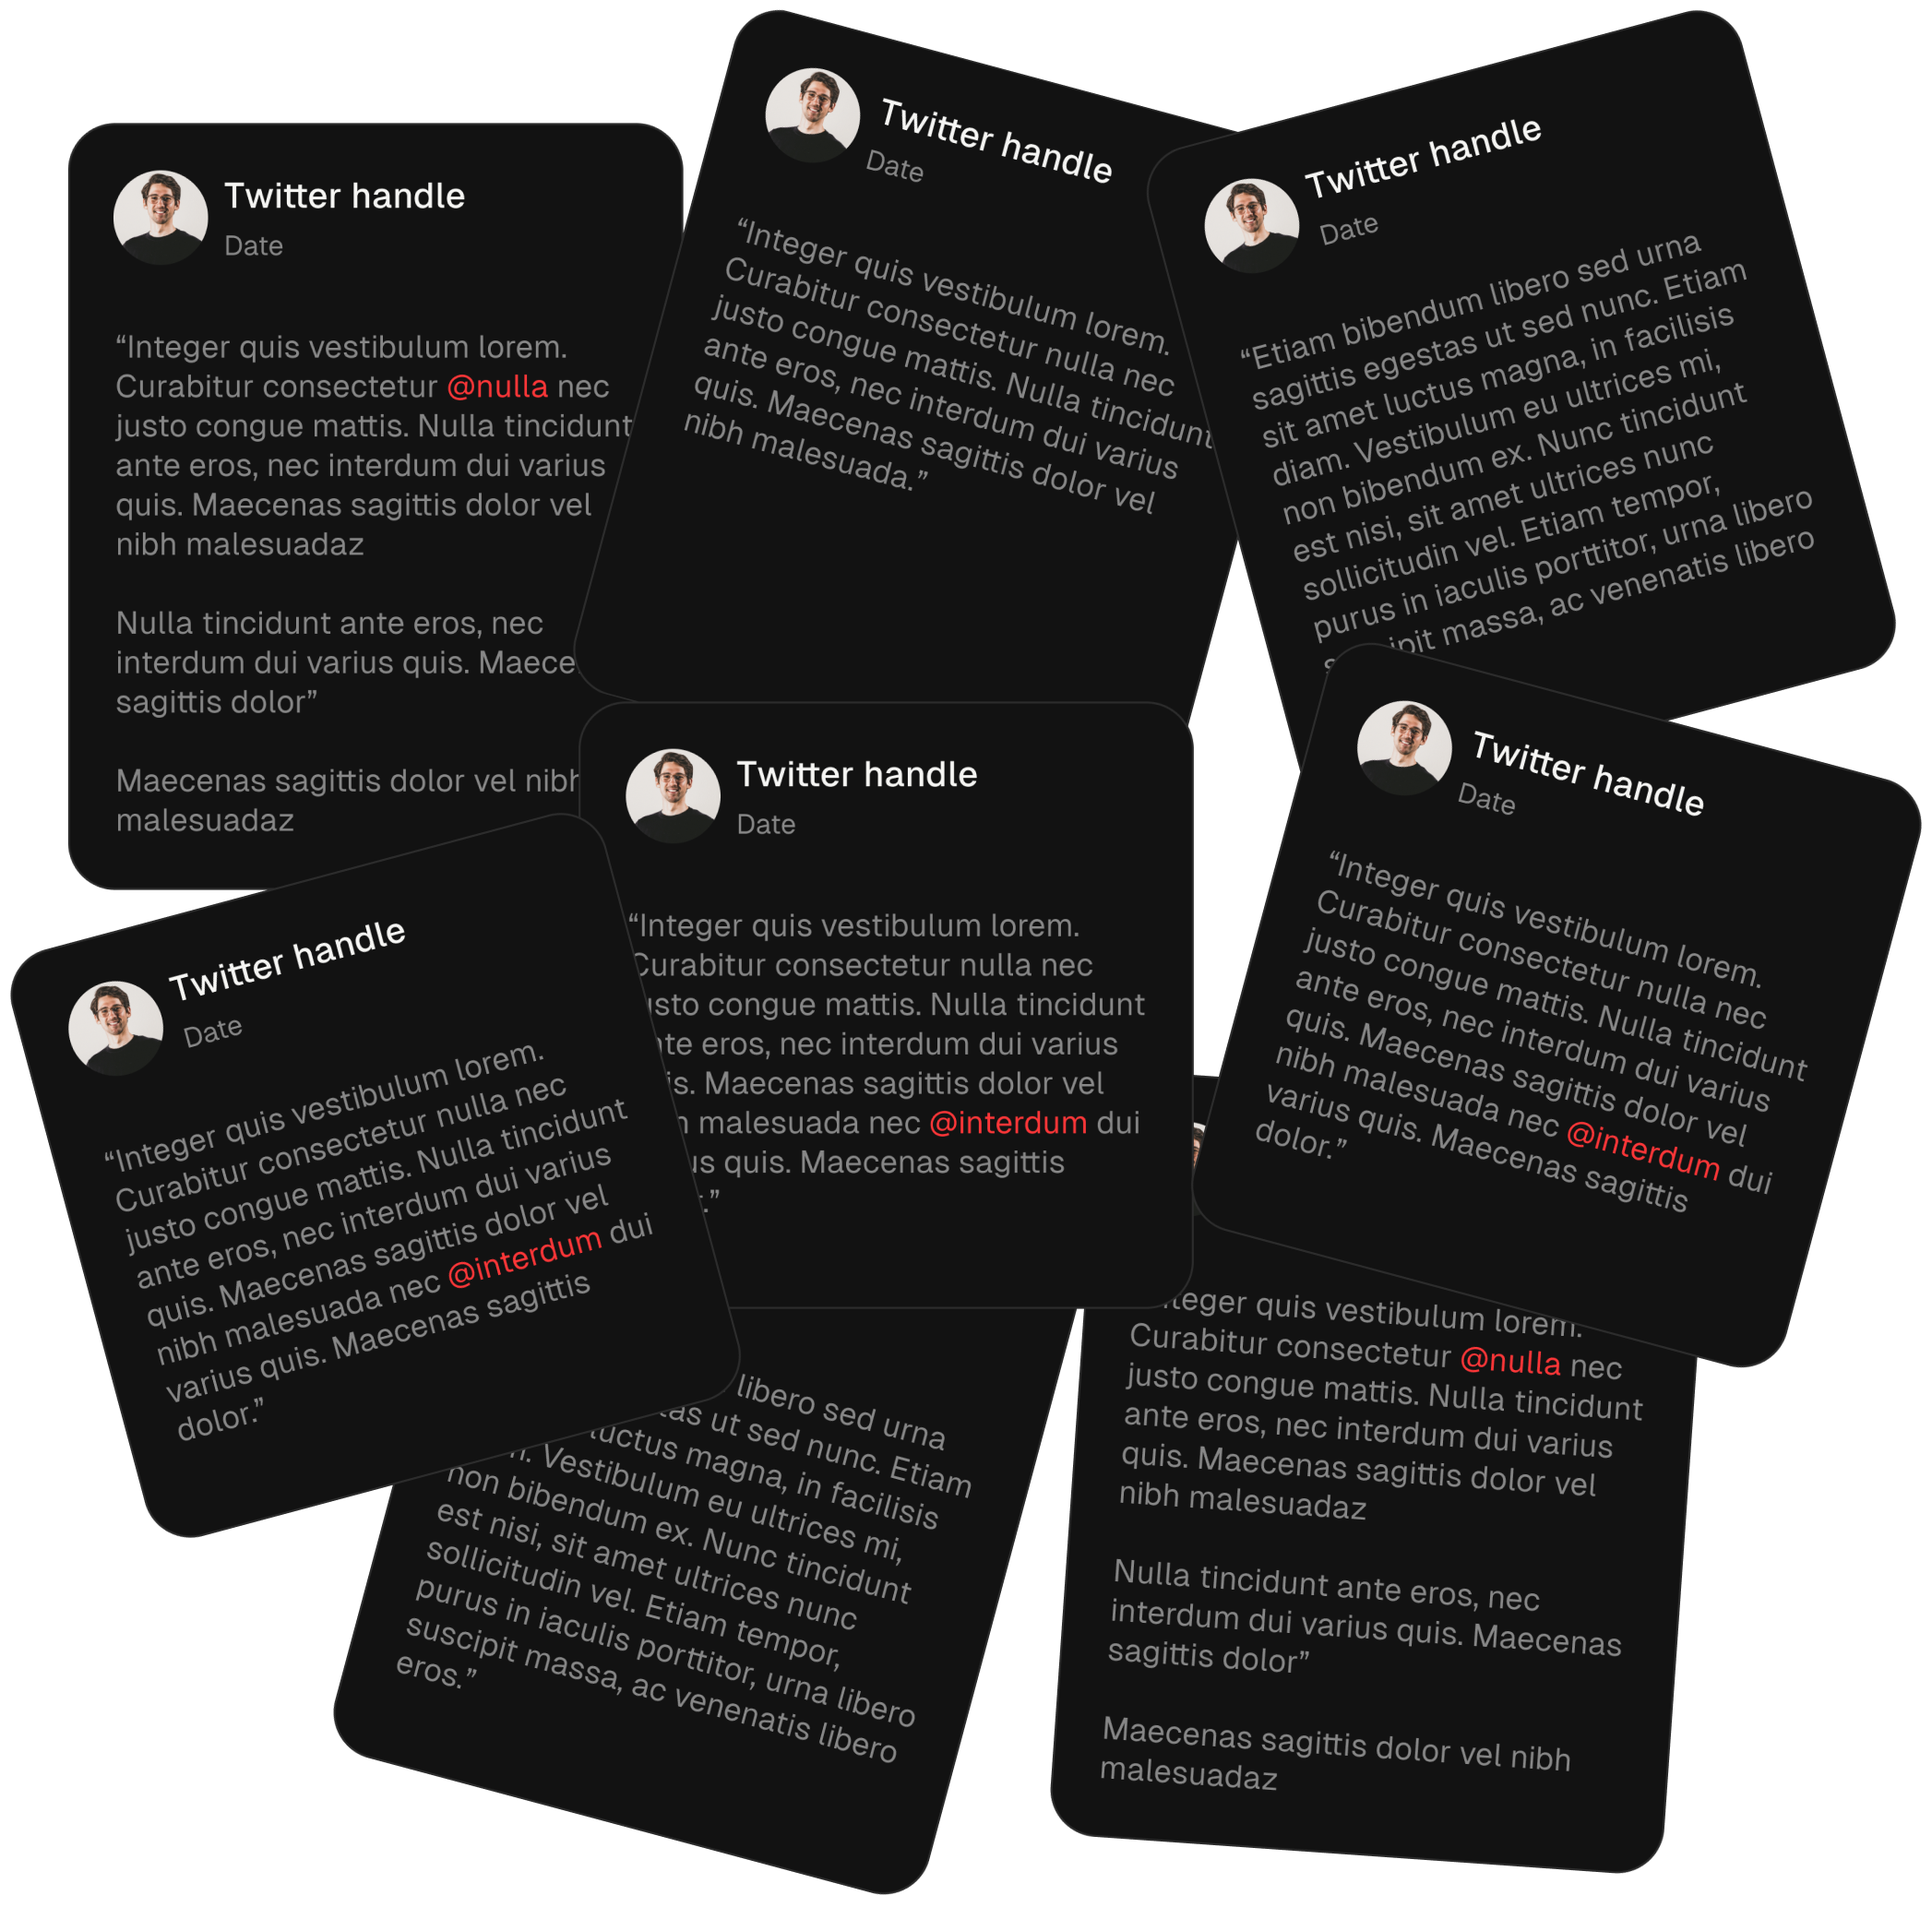
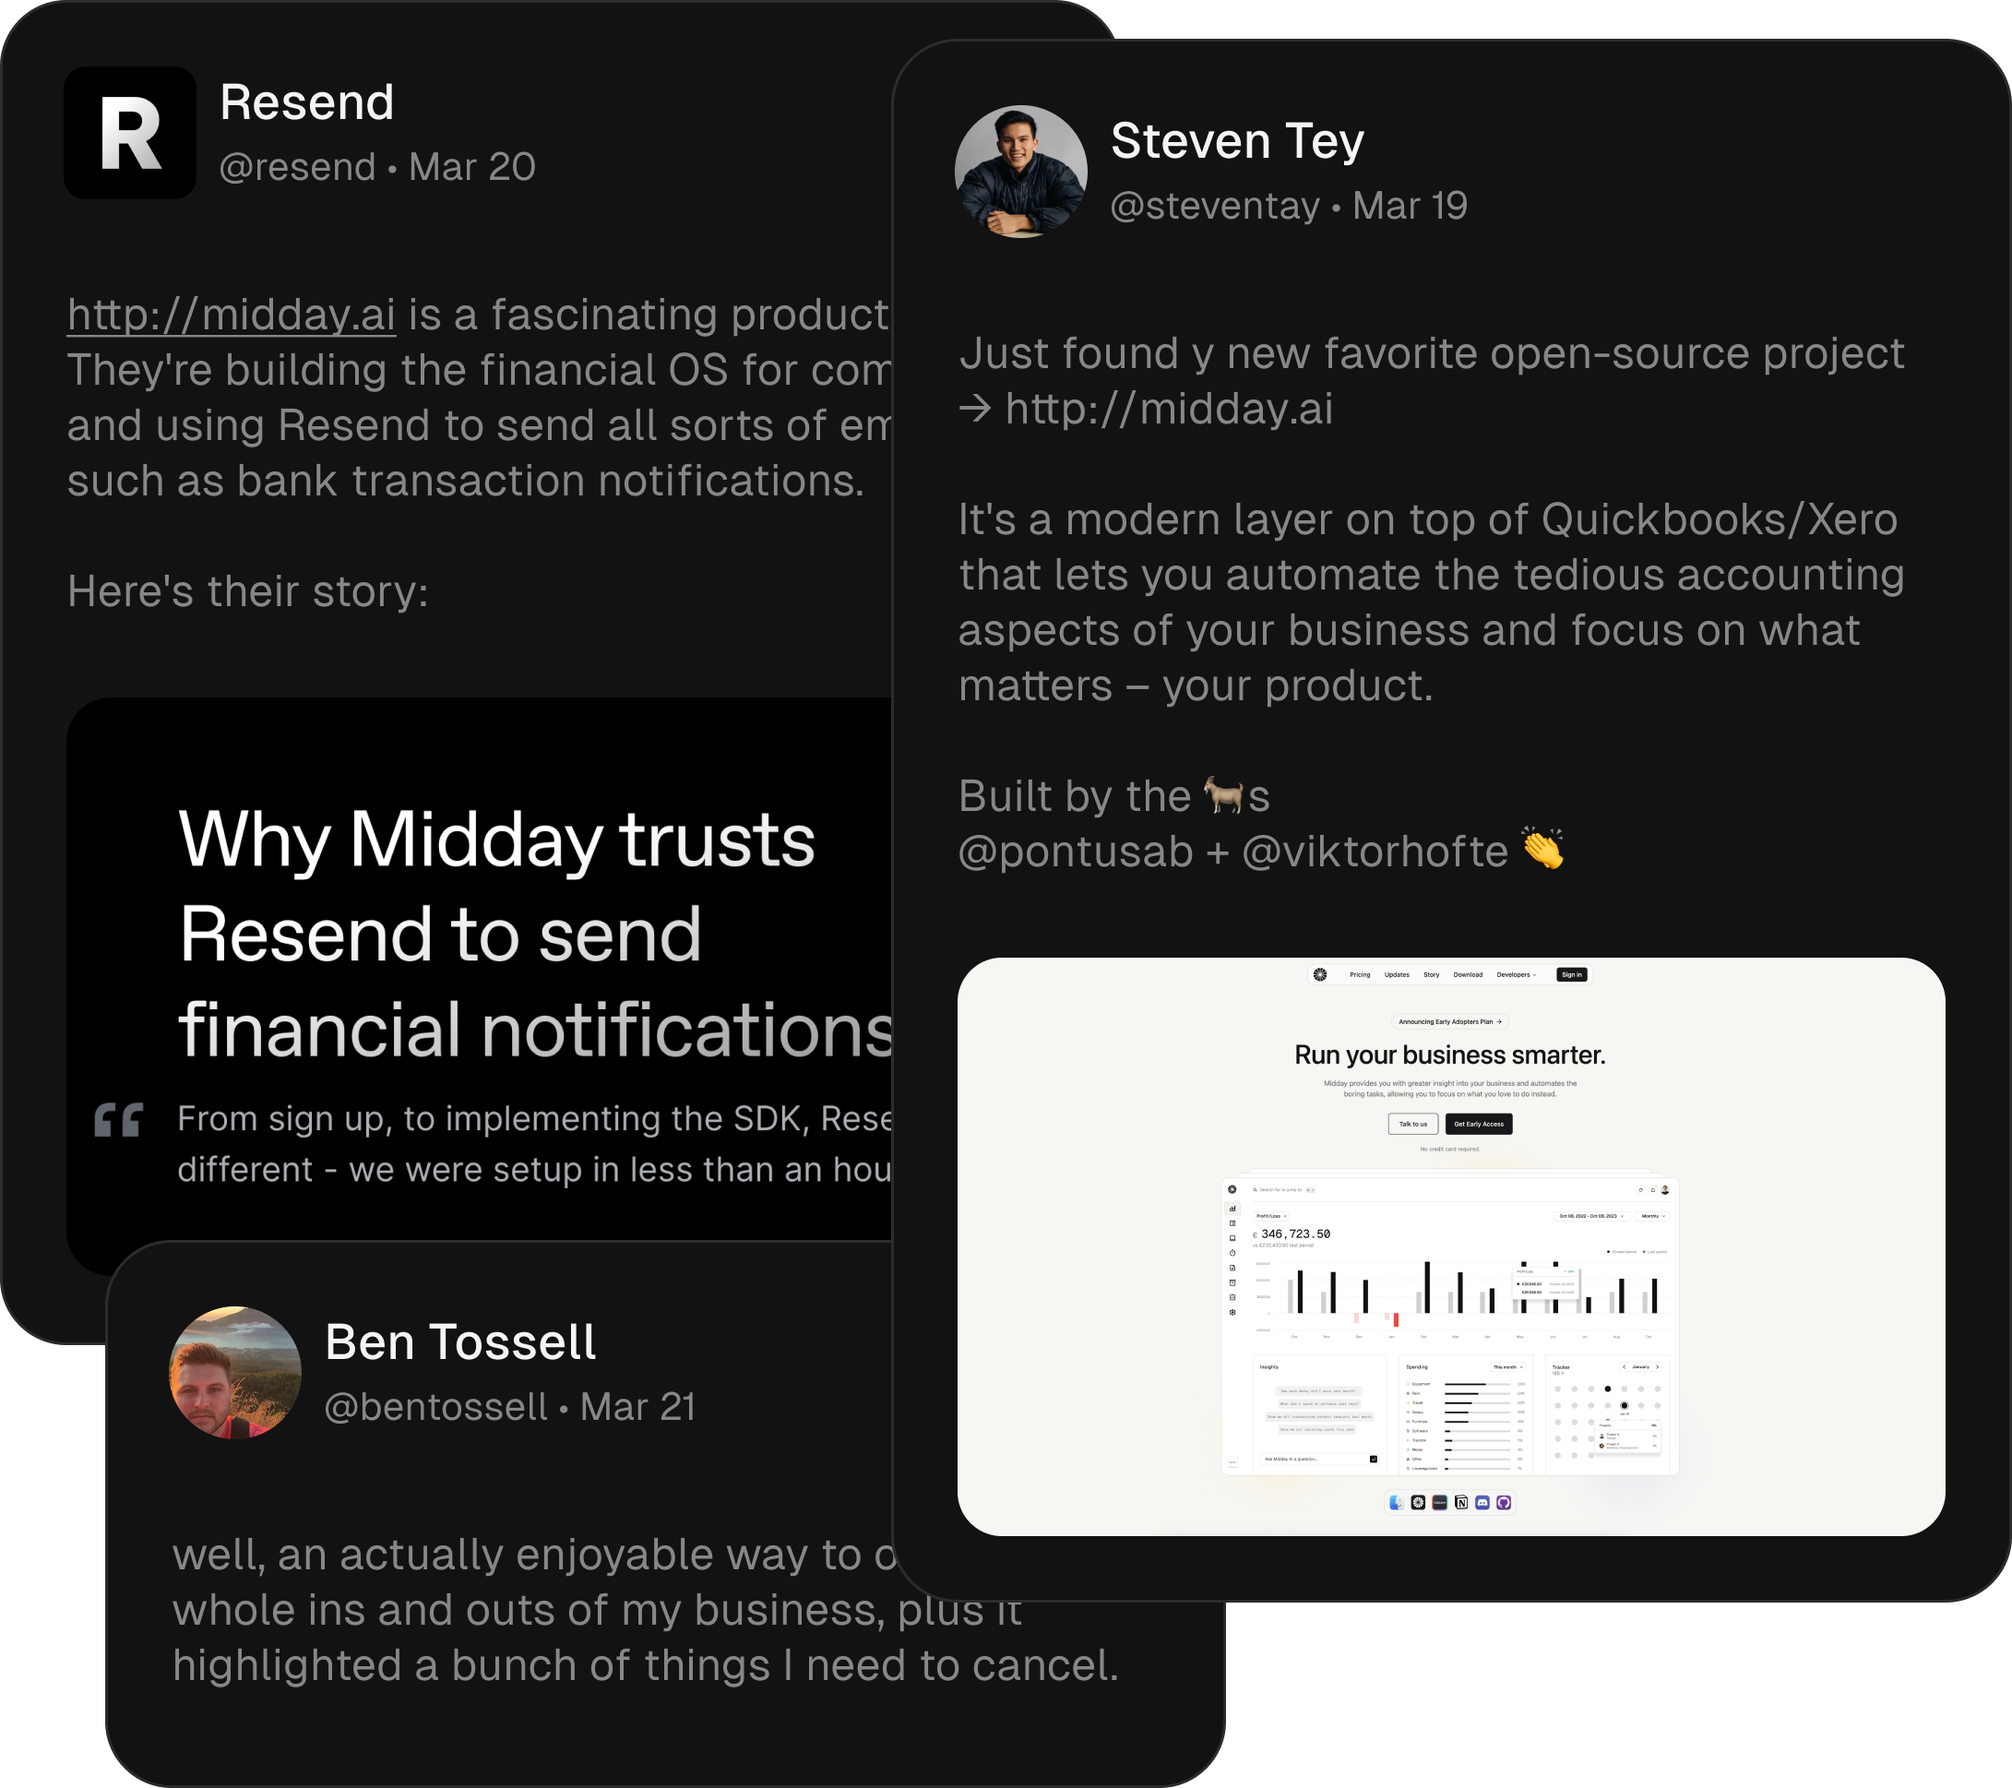
Add new image

diff --git a/apps/website/src/components/pitch/section-traction.tsx b/apps/website/src/components/pitch/section-traction.tsx
@@ -2,9 +2,11 @@
 
 import { fetchGithubStars } from "@/actions/fetch-github-stars";
 import { fetchStats } from "@/actions/fetch-stats";
+import { Button } from "@midday/ui/button";
 import Image from "next/image";
 import Link from "next/link";
 import { useEffect, useState } from "react";
+import { FaXTwitter } from "react-icons/fa6";
 import customers from "./customers.png";
 import { Card } from "./ui";
 
@@ -44,7 +46,7 @@ export function SectionTraction() {
       <div className="flex flex-col min-h-screen justify-center container">
         <div className="grid md:grid-cols-3 gap-8 px-4 md:px-0 md:pt-0 h-[580px] md:h-auto overflow-auto pb-[100px] md:pb-0">
           <div className="space-y-8">
-            <Card className="min-h-[360px]">
+            <Card className="min-h-[365px]">
               <h2 className="text-2xl">Waitlist sign ups</h2>
 
               <p className="text-[#878787] text-sm text-center">
@@ -55,7 +57,7 @@ export function SectionTraction() {
               <span className="mt-auto font-mono text-[122px]">3453</span>
             </Card>
 
-            <Card className="min-h-[360px]">
+            <Card className="min-h-[365px]">
               <h2 className="text-2xl">Github stars</h2>
 
               <p className="text-[#878787] text-sm text-center">
@@ -79,7 +81,7 @@ export function SectionTraction() {
             </Card>
           </div>
           <div className="space-y-8">
-            <Card className="min-h-[360px]">
+            <Card className="min-h-[365px]">
               <h2 className="text-2xl">Private beta users</h2>
 
               <p className="text-[#878787] text-sm text-center">
@@ -98,7 +100,7 @@ export function SectionTraction() {
               </div>
             </Card>
 
-            <Card className="min-h-[360px]">
+            <Card className="min-h-[365px]">
               <h2 className="text-2xl">Transactions</h2>
 
               <p className="text-[#878787] text-sm text-center">
@@ -122,8 +124,15 @@ export function SectionTraction() {
             </Card>
           </div>
 
-          <div className="ml-auto w-full max-w-[820px] h-full border border-border rounded-xl p-6 bg-[#0C0C0C]">
-            <h2 className="mb-24 block text-[38px]">What users are saying</h2>
+          <div className="ml-auto w-full max-w-[820px] h-full border border-border rounded-xl p-6 bg-[#0C0C0C] relative">
+            <h2 className="mb-24 block text-[38px]">What people say</h2>
+
+            <div className=" absolute w-[220px] top-[50%] left-[50%] -mt-5 -ml-[110px] flex justify-center">
+              <Button className="w-full flex items-center space-x-2 h-10">
+                <span>More posts on</span>
+                <FaXTwitter />
+              </Button>
+            </div>
 
             <Image src={customers} width={698} alt="Customers" quality={100} />
           </div>
